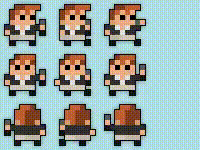
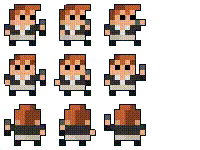
https://www.youtube.com/watch?v=dQw4w9WgXcQ

diff --git a/Entities/Enemies/RickAstley.cs b/Entities/Enemies/RickAstley.cs
@@ -30,8 +30,8 @@ namespace ZeldaDungeon.Entities.Enemies
         public RickAstley(Point position, Room r)
         {
             RickAstleySprite = EnemySpriteFactory.Instance.CreateRickAstleySprite();
-            int width = (int)SpriteUtil.SpriteSize.BowserX;
-            int height = (int)SpriteUtil.SpriteSize.BowserY;
+            int width = (int)SpriteUtil.SpriteSize.RickX;
+            int height = (int)SpriteUtil.SpriteSize.RickY;
             CurrentLoc = new Rectangle(position, new Point(width * SpriteUtil.SCALE_FACTOR, height * SpriteUtil.SCALE_FACTOR));
             Collision = new CollisionHandler(r, this);
             initX = position.X;
@@ -40,44 +40,9 @@ namespace ZeldaDungeon.Entities.Enemies
             this.r = r;
             currentFrame = 0;
         }
-
-        private static readonly int CHANGE_DIR_CHANCE = 4;
-        private static readonly int X_LIMIT = 2;
-        private static readonly int SPEED = 4;
         public void Move()
         {
-            if (!WillMove)
-            {
-                return;
-            }
-            int locChange = SPEED * SpriteUtil.SCALE_FACTOR;
-            if (SpriteUtil.Rand.Next(CHANGE_DIR_CHANCE) == 0)
-            {
-                movingLeft = !movingLeft;
-            }
-            if (movingLeft)
-            {
-                if (!Collision.WillHitBlock(new Rectangle(new Point(CurrentLoc.X - locChange, CurrentLoc.Y), CurrentLoc.Size)))
-
-                {
-                    CurrentLoc = new Rectangle(new Point(CurrentLoc.X - locChange, CurrentLoc.Y), CurrentLoc.Size);
-                }
-                if (CurrentLoc.X < initX - X_LIMIT * (int)SpriteUtil.SpriteSize.GenericBlockX * SpriteUtil.SCALE_FACTOR)
-                {
-                    movingLeft = !movingLeft;
-                }
-            }
-            else
-            {
-                if (!Collision.WillHitBlock(new Rectangle(new Point(CurrentLoc.X + locChange, CurrentLoc.Y), CurrentLoc.Size)))
-                {
-                    CurrentLoc = new Rectangle(new Point(CurrentLoc.X + locChange, CurrentLoc.Y), CurrentLoc.Size);
-                }
-                if (CurrentLoc.X > initX + X_LIMIT * (int)SpriteUtil.SpriteSize.GenericBlockX * SpriteUtil.SCALE_FACTOR)
-                {
-                    movingLeft = !movingLeft;
-                }
-            }
+            // Rick Astley is a singer, not a fighter.
 
         }
 
@@ -87,14 +52,24 @@ namespace ZeldaDungeon.Entities.Enemies
             {
                 return;
             }
-            int fireballChange = SpriteUtil.Rand.Next(3) - 1;
-            int fireballVel = -2 * SpriteUtil.SCALE_FACTOR;
-            IProjectile fireballUp = new BowserFire(CurrentLoc.Location, fireballVel, (1 + fireballChange) * SpriteUtil.SCALE_FACTOR);
-            IProjectile fireballStraight = new BowserFire(CurrentLoc.Location, fireballVel, fireballChange * SpriteUtil.SCALE_FACTOR);
-            IProjectile fireballDown = new BowserFire(CurrentLoc.Location, fireballVel, (-1 + fireballChange) * SpriteUtil.SCALE_FACTOR);
-            r.RegisterEntity(fireballUp);
-            r.RegisterEntity(fireballStraight);
-            r.RegisterEntity(fireballDown);
+            //TODO: Change projectiles to music notes and add "Never Gonna Give You Up" Boss Music
+            int fireballVel = 2 * SpriteUtil.SCALE_FACTOR;
+            IProjectile fireballN = new BowserFire(CurrentLoc.Location, 0, -fireballVel);
+            IProjectile fireballS = new BowserFire(CurrentLoc.Location, 0, fireballVel);
+            IProjectile fireballE = new BowserFire(CurrentLoc.Location, fireballVel, 0);
+            IProjectile fireballW = new BowserFire(CurrentLoc.Location, -fireballVel,0);
+            IProjectile fireballSE = new BowserFire(CurrentLoc.Location, fireballVel, fireballVel);
+            IProjectile fireballSW = new BowserFire(CurrentLoc.Location, -fireballVel, fireballVel);
+            IProjectile fireballNE = new BowserFire(CurrentLoc.Location, fireballVel, -fireballVel);
+            IProjectile fireballNW = new BowserFire(CurrentLoc.Location, -fireballVel, -fireballVel);
+            r.RegisterEntity(fireballN);
+            r.RegisterEntity(fireballS);
+            r.RegisterEntity(fireballE);
+            r.RegisterEntity(fireballW);
+            r.RegisterEntity(fireballSE);
+            r.RegisterEntity(fireballSW);
+            r.RegisterEntity(fireballNE);
+            r.RegisterEntity(fireballNW);
         }
 
         public void TakeDamage(DamageLevel level)
@@ -124,7 +99,7 @@ namespace ZeldaDungeon.Entities.Enemies
         public void Update()
         {
             currentFrame++;
-            RickAstleySprite.Update();
+            if (currentFrame % 2 == 0) RickAstleySprite.Update();
             if (stunCountdown > 0) { stunCountdown--; }
             if (RickAstleySprite.Damaged)
             {
@@ -137,10 +112,8 @@ namespace ZeldaDungeon.Entities.Enemies
             Collision.Update();
 
         }
-        private static readonly int MOVE_TIMER = 8;
         private static readonly int ATTACK_TIMER = 64;
         private static readonly int ATTACK_CHANCE = 4;
-        private bool WillMove => currentFrame % MOVE_TIMER == 0 && stunCountdown == 0;
         private bool WillAttack => currentFrame % ATTACK_TIMER == 0 && SpriteUtil.Rand.Next(ATTACK_CHANCE) == 0 && stunCountdown == 0;
         public void DespawnEffect()
         {

diff --git a/Sprites/EnemySpriteFactory.cs b/Sprites/EnemySpriteFactory.cs
@@ -48,7 +48,7 @@ namespace ZeldaDungeon.Sprites
             int width = (int)SpriteSize.BowserFireX;
             int height = (int)SpriteSize.BowserFireY;
 
-            Rectangle[] sourceRectangles = { new Rectangle(128, 282, width, height), new Rectangle(128, 292, width, height) };
+            Rectangle[] sourceRectangles = { new Rectangle(128+ width, 282 + height, -width, -height), new Rectangle(128 + width, 292 + height, -width, -height) };
             return new AnimatedSprite(bowserSpriteSheet, sourceRectangles);
         }
 
@@ -66,7 +66,9 @@ namespace ZeldaDungeon.Sprites
             int width = (int)SpriteSize.RickX;
             int height = (int)SpriteSize.RickY;
 
-            Rectangle[] sourceRectangles = { new Rectangle(5, 5, width, height), new Rectangle(59, 5, width, height) };
+            Rectangle[] sourceRectangles = { new Rectangle(3, 3, width, height), new Rectangle(58, 3, width, height), new Rectangle(103, 3, width, height),
+            new Rectangle(3, 53, width, height), new Rectangle(53, 53, width, height), new Rectangle(103, 53, width, height), new Rectangle(103, 3, width, height),
+            new Rectangle(103, 58, width, height), new Rectangle(103, 103, width, height)};
             return new AnimatedSprite(rickSpriteSheet, sourceRectangles);
         }
 

diff --git a/Sprites/SpriteUtil.cs b/Sprites/SpriteUtil.cs
@@ -88,8 +88,8 @@ namespace ZeldaDungeon.Sprites
             KoopaY = 23,
             GameNWatchX = 21,
             GameNWatchY = 21,
-            RickX = 40,
-            RickY = 40,
+            RickX = 43,
+            RickY = 43,
             BowserX = 32,
             BowserY = 32,
             BowserFireX = 23,
